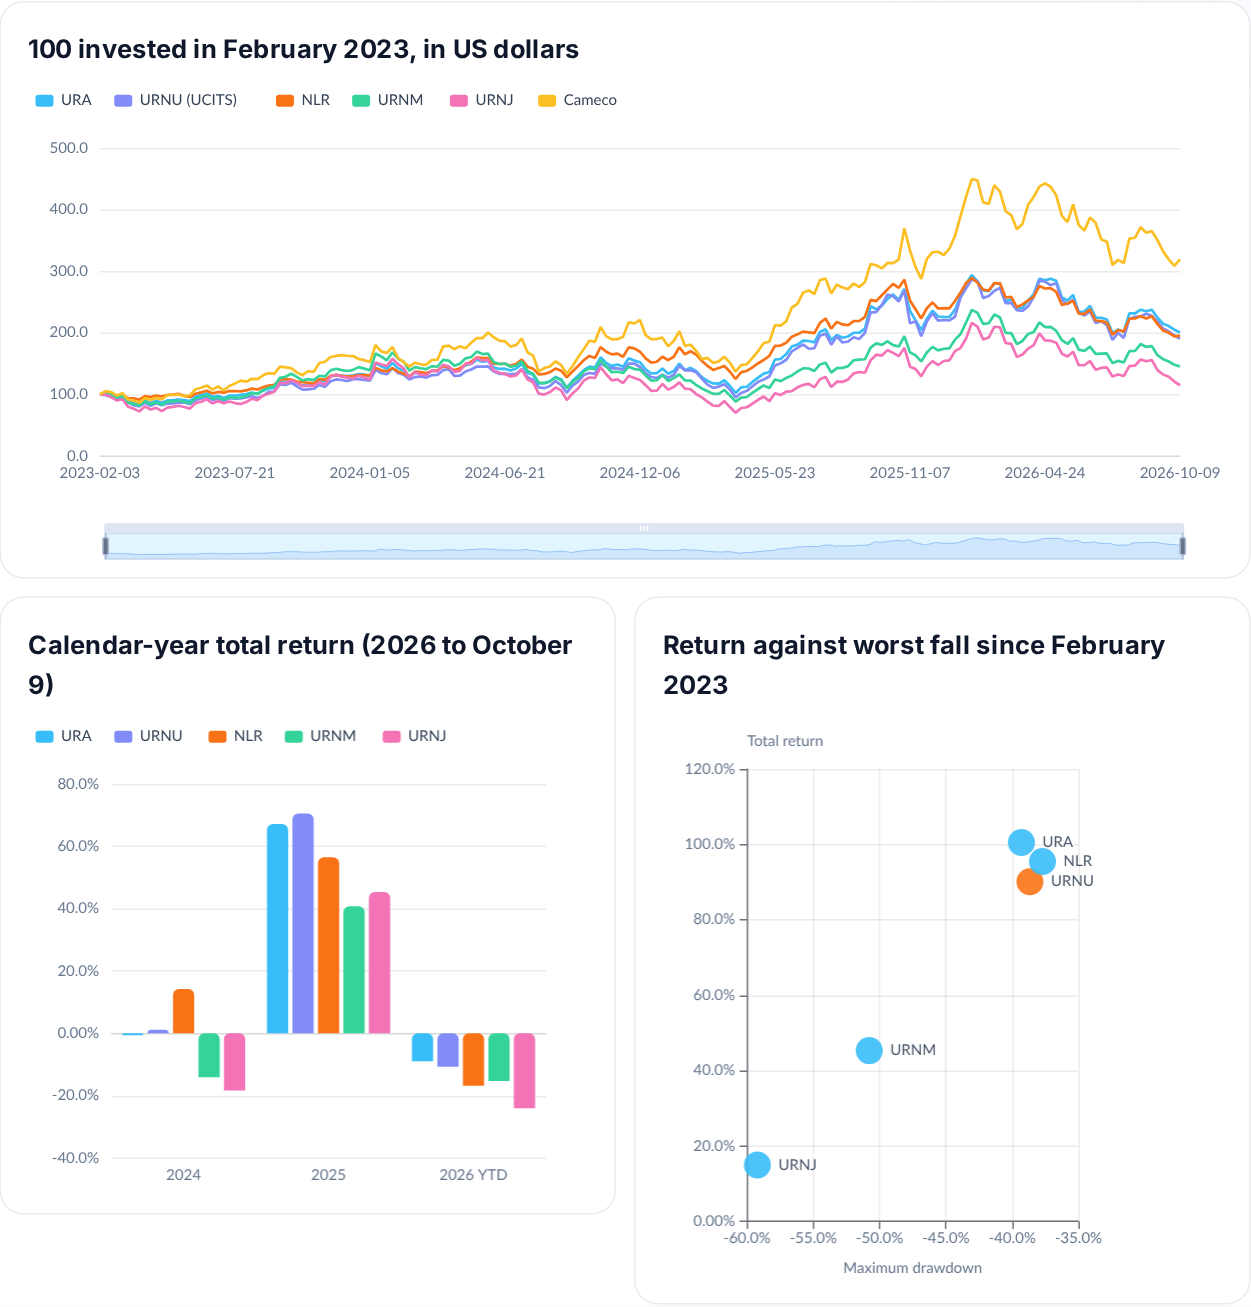
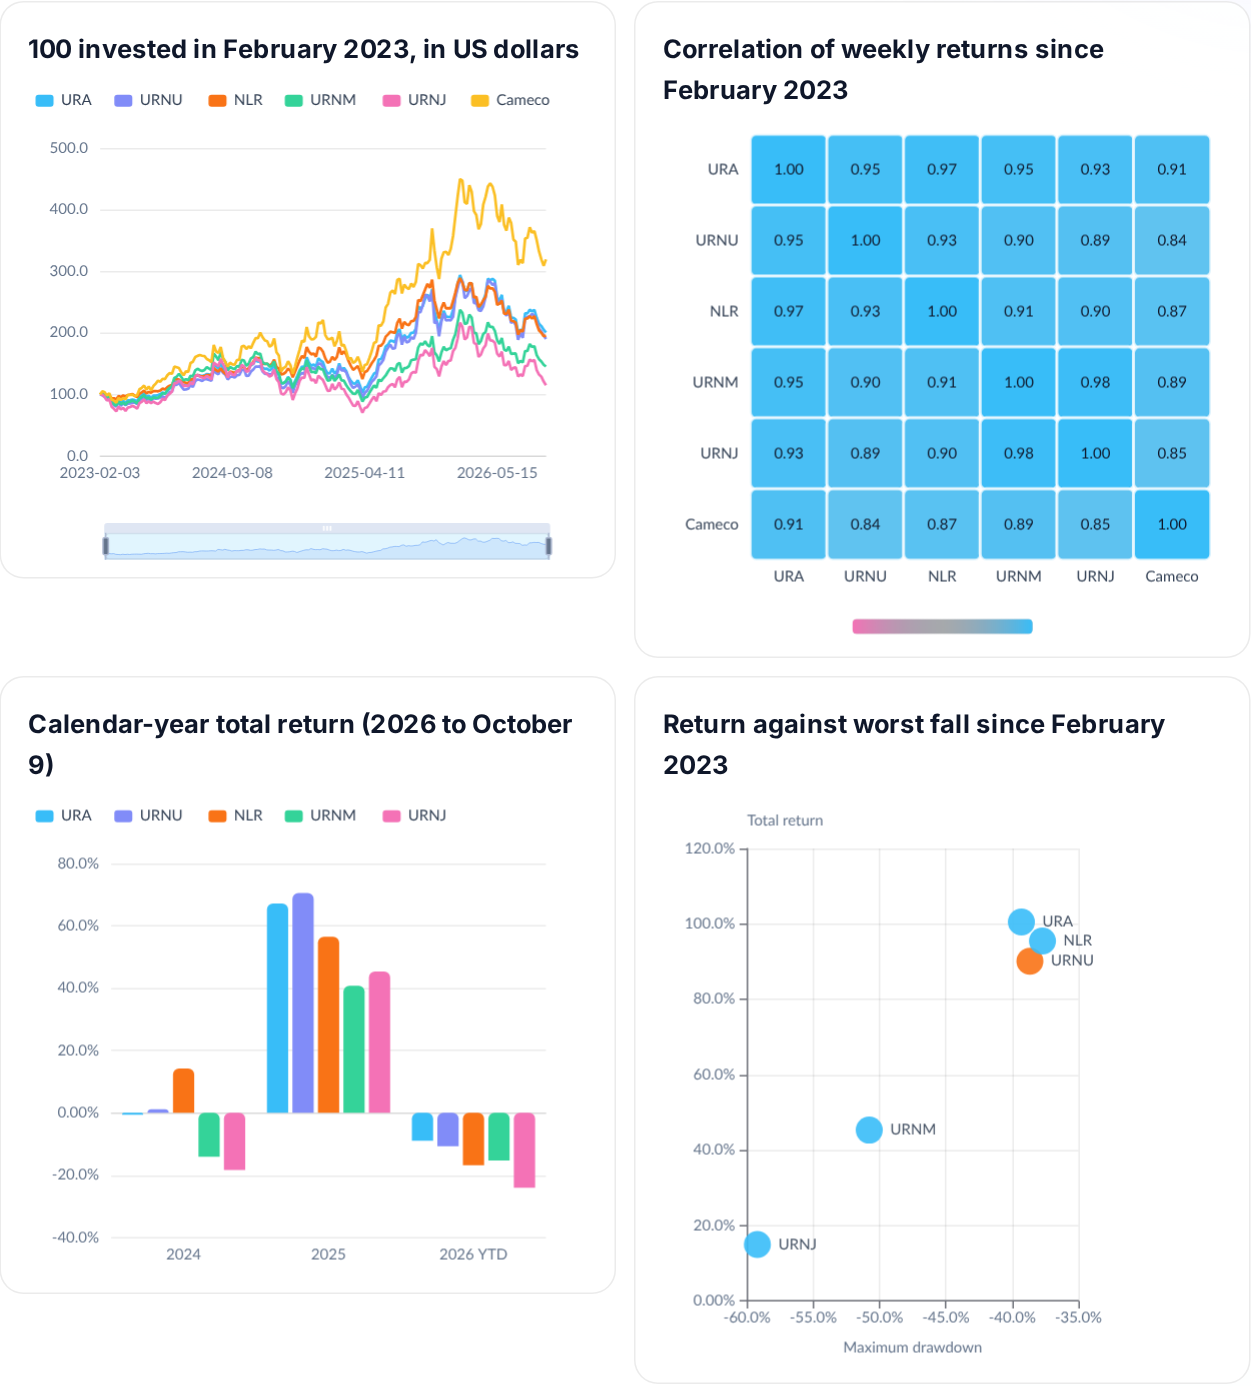
Find stocks and ETFs article: four charts in every two-column dashboard
Uranium gains the correlation heatmap and Apple the listings of its ISIN by
country, so no dashboard (and no Medium image) has an odd number of charts.

diff --git a/_pages/articles/find-stocks-and-etfs-with-claude.md b/_pages/articles/find-stocks-and-etfs-with-claude.md
@@ -138,7 +138,8 @@ Below are six real questions, answered through both servers on October 12, 2026,
 <details class="mcp-show__trace"><summary><i class="fas fa-list-check" aria-hidden="true"></i> The steps behind the answer</summary><ol><li><code>etfs</code><span>Finance Database: "uranium" in the name, every exchange and currency</span></li><li><code>search_instruments</code><span>Finance Database: Cameco, one of the largest uranium miners, as a reference</span></li><li><code>market_data</code><span>Prices with distributions since February 2023, US dollar listings</span></li><li><code>performance</code><span>Calendar-year returns and the correlation of weekly returns</span></li><li><code>risk</code><span>Maximum drawdown since February 2023</span></li></ol></details>
 
 <div class="mcp-show__grid">
-<div class="mcp-show__cell mcp-show__cell--wide">{% include ft-chart.html id="fdb-uranium-growth" src="/assets/data/article-charts.json" label="Value of 100 invested in uranium ETFs and Cameco since February 2023" %}</div>
+<div class="mcp-show__cell">{% include ft-chart.html id="fdb-uranium-growth" src="/assets/data/article-charts.json" label="Value of 100 invested in uranium ETFs and Cameco since February 2023" %}</div>
+<div class="mcp-show__cell">{% include ft-chart.html id="fdb-uranium-corr" src="/assets/data/article-charts.json" label="Correlation of weekly returns of uranium ETFs and Cameco" %}</div>
 <div class="mcp-show__cell">{% include ft-chart.html id="fdb-uranium-years" src="/assets/data/article-charts.json" label="Calendar-year returns of uranium ETFs" %}</div>
 <div class="mcp-show__cell">{% include ft-chart.html id="fdb-uranium-risk" src="/assets/data/article-charts.json" label="Total return against maximum drawdown of uranium ETFs" %}</div>
 </div>
@@ -154,9 +155,10 @@ Below are six real questions, answered through both servers on October 12, 2026,
 <details class="mcp-show__trace"><summary><i class="fas fa-list-check" aria-hidden="true"></i> The steps behind the answer</summary><ol><li><code>search_instruments</code><span>Finance Database: the ISIN, every listing with its exchange and currency</span></li><li><code>market_data</code><span>Prices of seven listings, one per market, since January 2025</span></li><li><code>market_data</code><span>Exchange rates of the dollar against the euro, peso, real and others</span></li></ol></details>
 
 <div class="mcp-show__grid">
+<div class="mcp-show__cell">{% include ft-chart.html id="fdb-isin-listings" src="/assets/data/article-charts.json" label="Listings of Apple's ISIN by country" %}</div>
 <div class="mcp-show__cell">{% include ft-chart.html id="fdb-apple-listings" src="/assets/data/article-charts.json" label="Apple's return on each of seven listings since January 2025" %}</div>
+<div class="mcp-show__cell">{% include ft-chart.html id="fdb-apple-fx" src="/assets/data/article-charts.json" label="Apple on Nasdaq, Xetra, Buenos Aires and São Paulo since January 2025" %}</div>
 <div class="mcp-show__cell">{% include ft-chart.html id="fdb-apple-dollar" src="/assets/data/article-charts.json" label="The dollar against five currencies since January 2025" %}</div>
-<div class="mcp-show__cell mcp-show__cell--wide">{% include ft-chart.html id="fdb-apple-fx" src="/assets/data/article-charts.json" label="Apple on Nasdaq, Xetra, Buenos Aires and São Paulo since January 2025" %}</div>
 </div>
 <div class="mcp-show__verdict"><p class="mcp-show__label"><i class="fas fa-lightbulb" aria-hidden="true"></i> What the data shows</p><p>One share, returns from 12% to 92%. In dollars, Apple rose 39.1% since January 2025. On Xetra in euros it rose 25.6%, because the dollar lost 8.0% against the euro; in São Paulo it rose 12.1%, as the dollar lost 19.5% against the real. In Buenos Aires it rose 91.9%, most of it the peso's fall: the dollar rose 47% against it. The two charts side by side explain each other: each listing is roughly Apple's dollar return plus the currency move.</p></div>
 <div class="ca-nums"><span><b>39.1%</b>in dollars</span><span><b>25.6%</b>in euros on Xetra</span><span><b>91.9%</b>in Argentine pesos</span></div>
